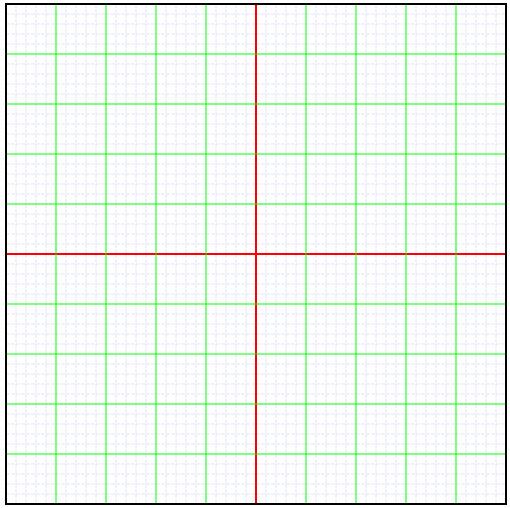
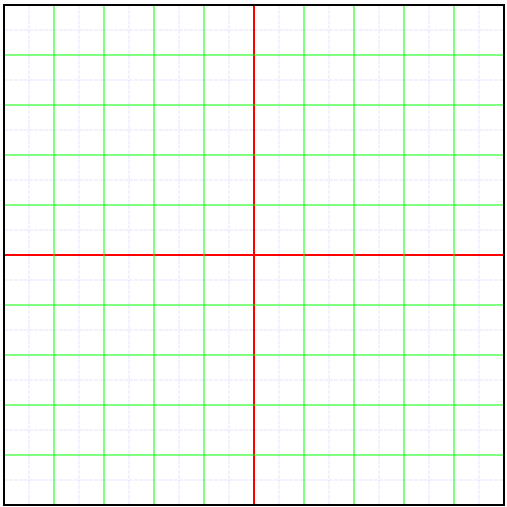
settings updated

Changed region(s): [[0.0, 0.0, 1.0, 1.0]]

diff --git a/js/test_simplegrid.js b/js/test_simplegrid.js
@@ -31,7 +31,7 @@ const settings = {
   },
   minorLines: {
     configuration: {
-      number: 1,
+      number: 4,
       distance: 50,
     },
     attributes: {

diff --git a/README.md b/README.md
@@ -78,7 +78,7 @@ const settings = {
   },
   minorLines: {
     configuration: {
-      number: 1,
+      number: 4,
       distance: 50,
     },
     attributes: {
